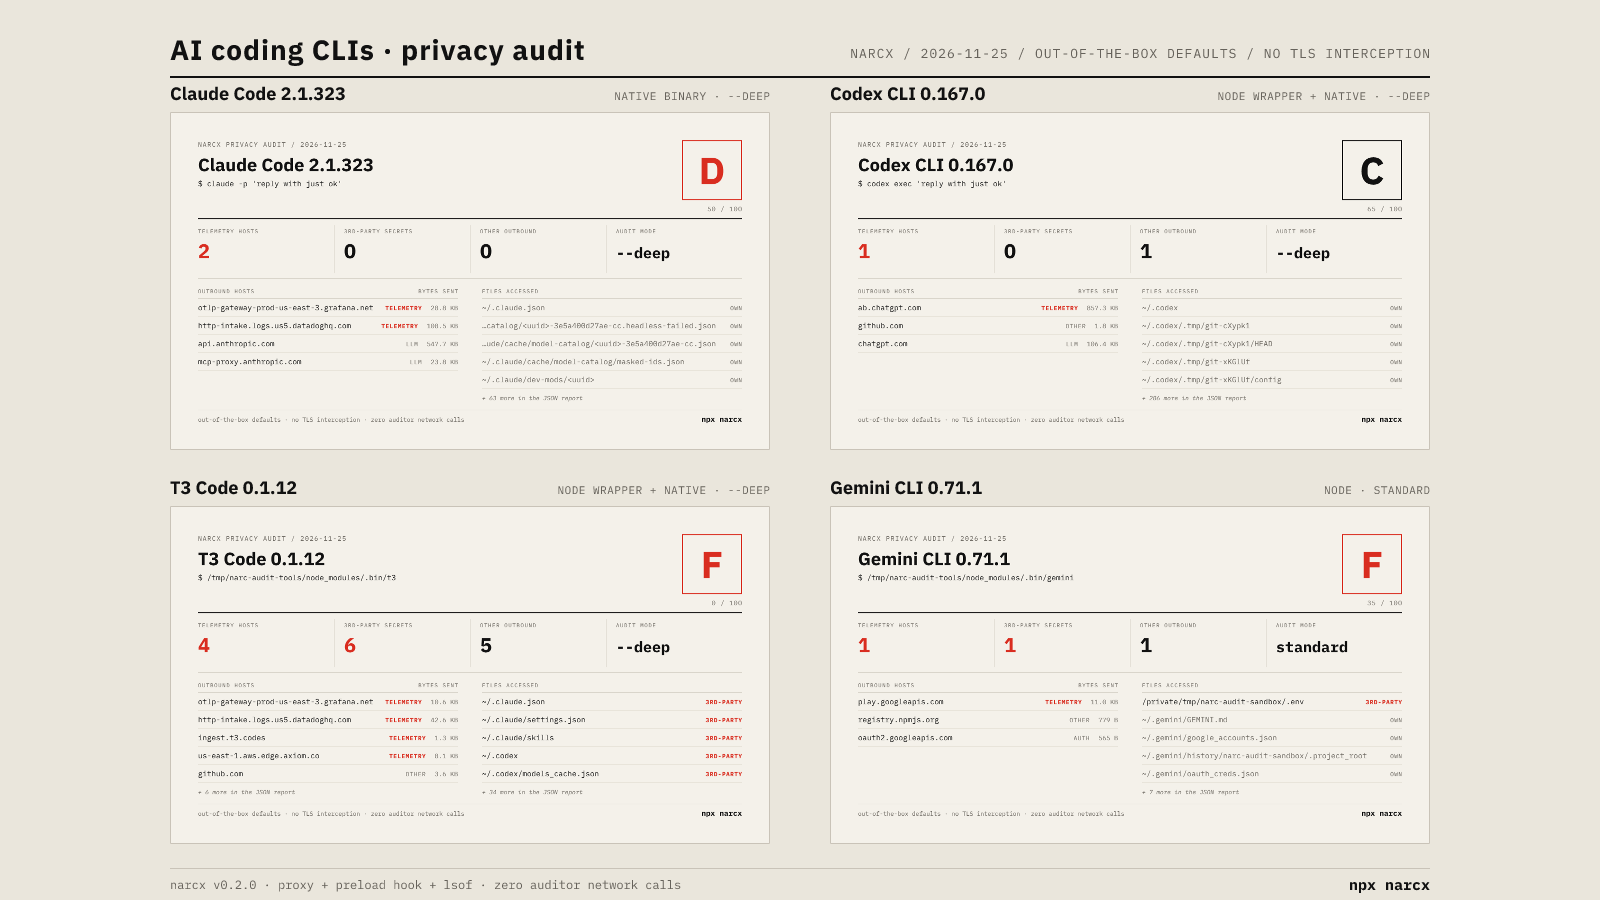
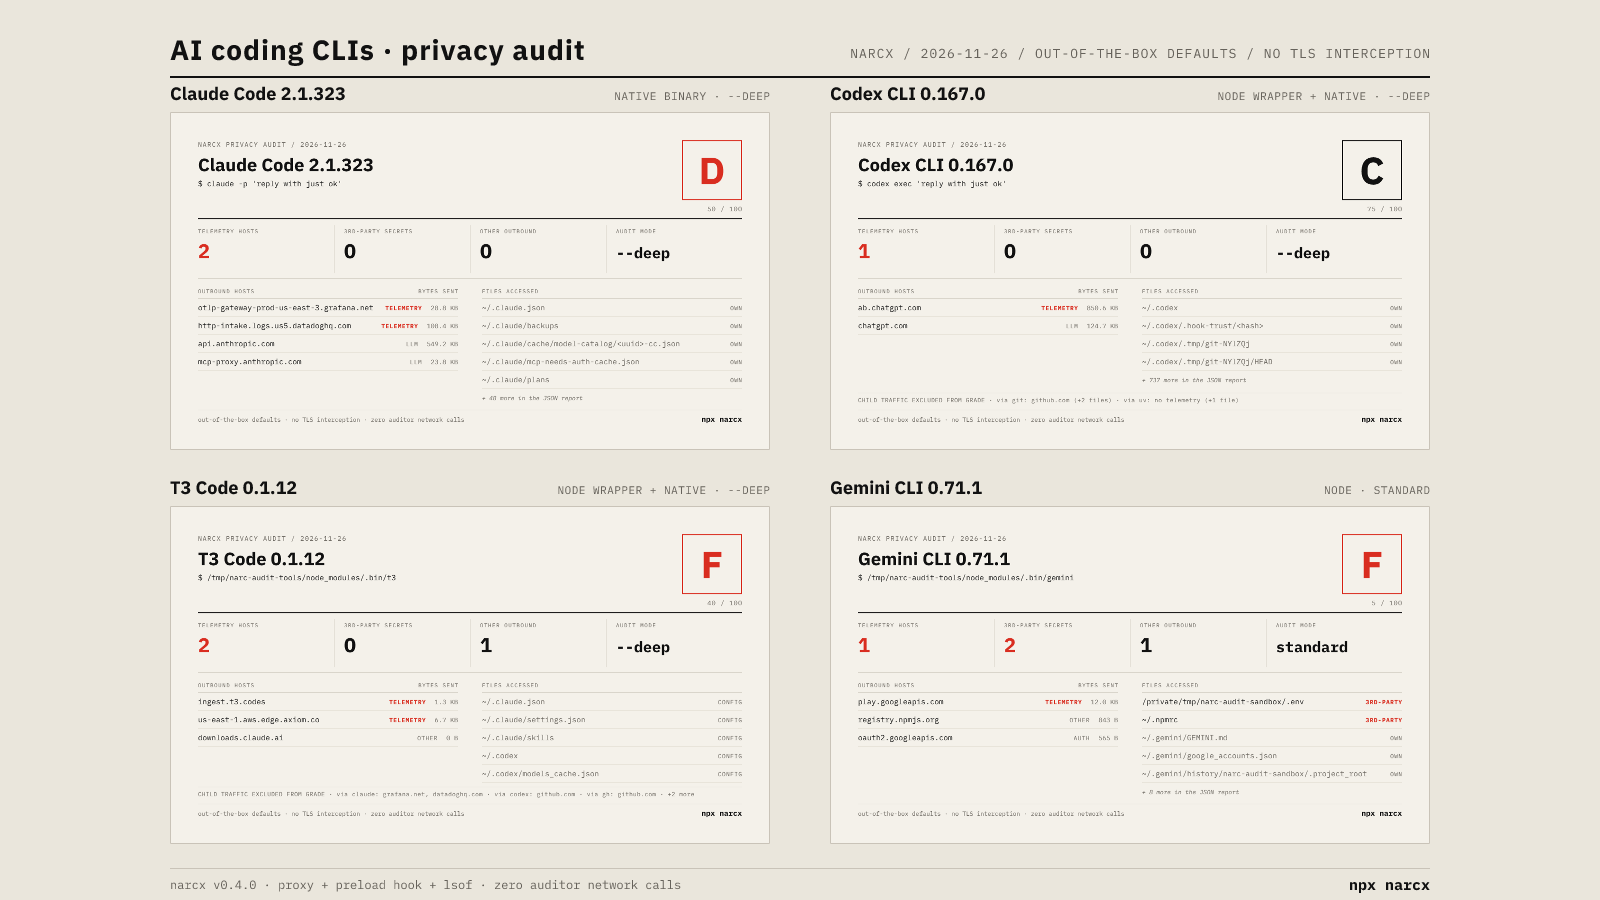
narcx 0.4.1: truncated fs_usage paths, sturdier audit masking
- fs_usage truncates long paths from the left; a cut inside "/Users/" left
  the username as a directory under home (~/<user>/.local/...). The tail is
  now matched against the longest suffix of the home prefix; a cut after
  the home prefix is dropped instead of guessed
- scripts/mask.mjs: masks codex plugin and marketplace names as whole
  segments (also name.ext and x-name forms), uv/pipx tool venvs, any bare
  32+ hex id, and collapses an installed plugin's own file tree; literal
  names never touch bare hostnames. Masked reports carry masked: true so
  --from-raw restores originals by content, not mtime
- scripts/audit.mjs: a manifest the harness merges into is fresh again
- README grid refreshed from the 0.4.0 deep run

diff --git a/src/layers/fsusage.ts b/src/layers/fsusage.ts
@@ -75,8 +75,15 @@ export function reconstructPath(tail: string, home: string): string | null {
   // 4) a known root glued to junk ("F=-2/private/tmp/x"), unless the "junk" is a trimmed fragment of the home dir
   const m = ROOTS.exec(t);
   if (m && m.index > 0 && !home.endsWith(t.slice(0, m.index))) return t.slice(m.index);
-  // 5) trimmed somewhere inside the home prefix: "rshia/.aws/credentials"
-  return path.join(home, t.slice(t.indexOf("/") + 1));
+  // 5) trimmed somewhere inside the home prefix ("rshia/.aws/credentials", "s/arshia/.local/x"):
+  //    the tail is a suffix of `${home}/${rest}`, so take the longest suffix of `${home}/` it starts with.
+  //    A cut after the home prefix ("ocal/share/x") cannot be reconstructed, so it is dropped rather than guessed.
+  const hp = home + "/";
+  for (let n = 1; n < hp.length; n++) {
+    const suffix = hp.slice(n);
+    if (t.startsWith(suffix)) return path.join(home, t.slice(suffix.length));
+  }
+  return null;
 }
 
 export function sudoCached(): boolean {

diff --git a/test/parsers.test.ts b/test/parsers.test.ts
@@ -93,6 +93,11 @@ describe("fs_usage parsing", () => {
     expect(reconstructPath("junk/private/tmp/x/.env", "/Users/arshia")).toBe("/private/tmp/x/.env");
     expect(reconstructPath("rshia/Library/Application Support/x", "/Users/arshia")).toBe("/Users/arshia/Library/Application Support/x");
     expect(reconstructPath("/Library/Keychains/System.keychain", "/Users/arshia")).toBe("/Library/Keychains/System.keychain");
+    // cut inside "/Users/": the username segment is part of the home prefix, not a directory under it
+    expect(reconstructPath("s/arshia/.local/share/uv/tools/x/y.pyc", "/Users/arshia")).toBe("/Users/arshia/.local/share/uv/tools/x/y.pyc");
+    expect(reconstructPath("arshia/.codex/config.toml", "/Users/arshia")).toBe("/Users/arshia/.codex/config.toml");
+    // cut after the home prefix: unknowable, dropped
+    expect(reconstructPath("ocal/share/x", "/Users/arshia")).toBeNull();
   });
 
   it("accepts AT_FDCWD style negative descriptors in the fd column", () => {
